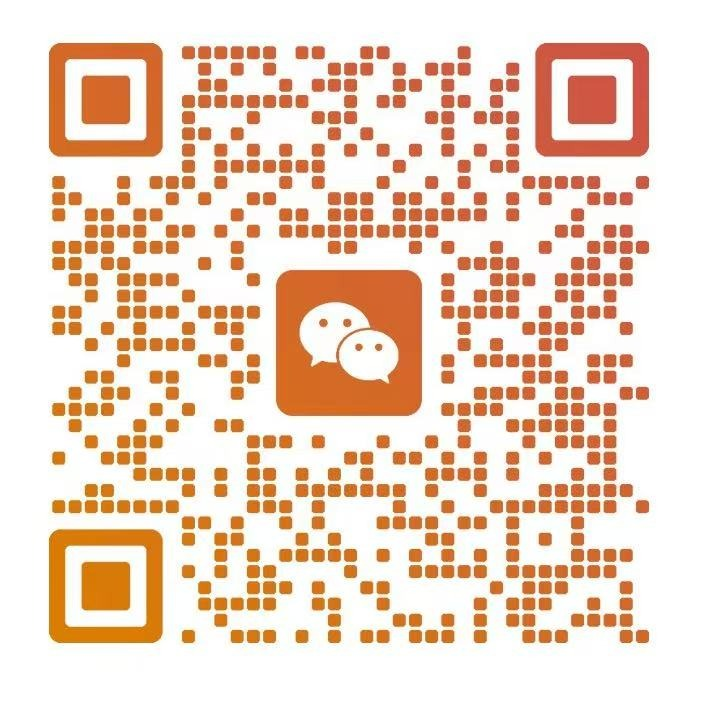
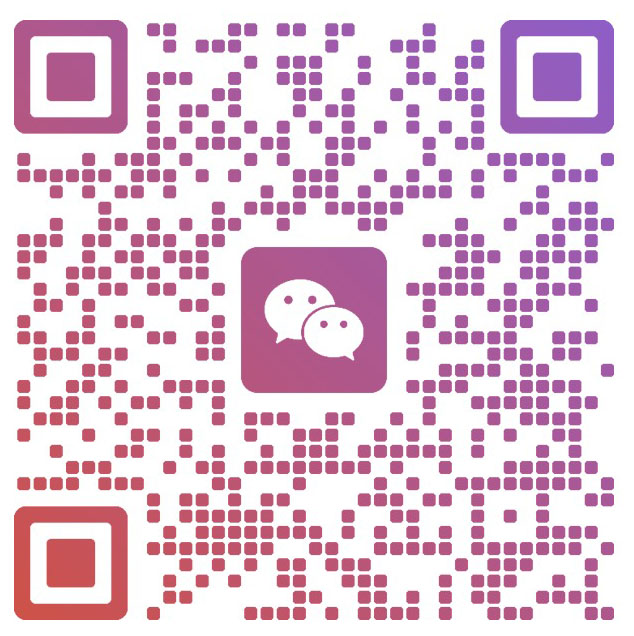
Update WeChat ID to ResAI_ResAI and refresh QR code

diff --git a/src/lib/utils.ts b/src/lib/utils.ts
@@ -7,4 +7,4 @@ export function cn(...inputs: ClassValue[]) {
 
 export const SITE_URL = "https://resai.us";
 export const CONTACT_EMAIL_PARTS = ["jli", "resai.us"] as const;
-export const WECHAT_ID = "StarryNightSecret";
+export const WECHAT_ID = "ResAI_ResAI";
